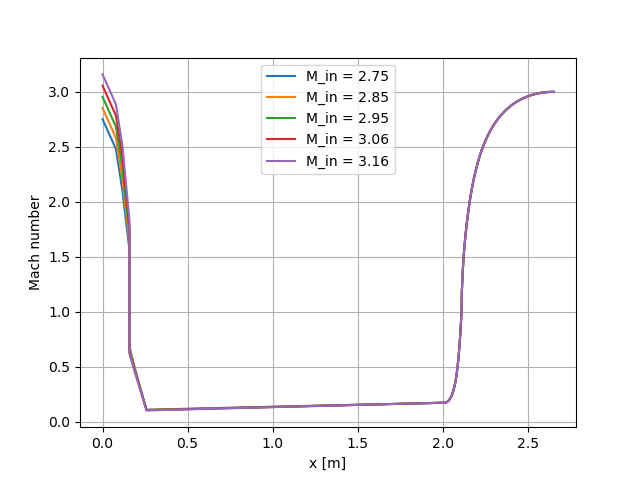
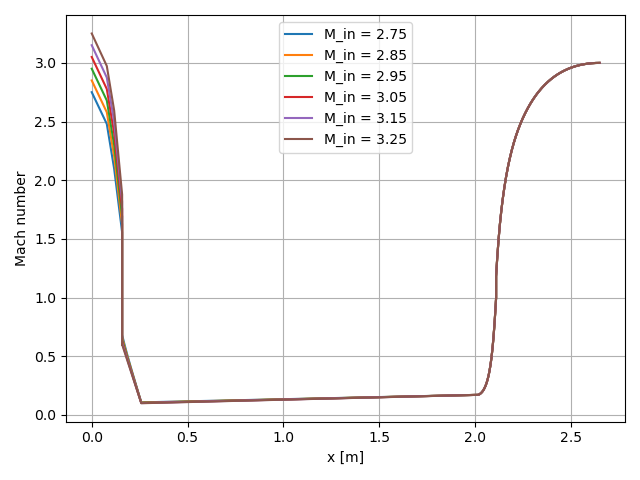
evaluation done. but MOC nozzle weird and non-isentropic. Also midterm report typo fix

diff --git a/Final/nozzle.py b/Final/nozzle.py
@@ -420,7 +420,7 @@ def design_nozzle(P5, T5, M5, m_dot, P_exit, depth, n_characteristics=300):
 
     return P, T, M, m_dot, A, h, x, c_plus_chars, c_minus_chars
 
-def analyze_nozzle(x6s, h6s, P5, T5, M5, depth, n_characteristics=300):
+def analyze_nozzle_moc(x6s, h6s, P5, T5, M5, depth, n_characteristics=300):
     """
     Analyze nozzle with quasi-1D isentropic flow
     
@@ -481,8 +481,8 @@ def analyze_nozzle(x6s, h6s, P5, T5, M5, depth, n_characteristics=300):
     T0 = T5 * (1 + (gamma-1)/2 * M5**2)
     
     # Estimate exit Mach from given wall geometry
-    A_throat = h6s[0] * depth
-    A_exit = h6s[-1] * depth
+    A_throat = h6s.iloc[0] * depth
+    A_exit = h6s.iloc[-1] * depth
     area_ratio = A_exit / A_throat
     
     def area_mach_function(M):
@@ -491,9 +491,9 @@ def analyze_nozzle(x6s, h6s, P5, T5, M5, depth, n_characteristics=300):
     M_exit = bisection_method(area_mach_function, area_ratio, 1e-9, 1.001, 10.0)
     
     # MOC setup
-    height_throat = h6s[0]
+    height_throat = h6s.iloc[0]
     M_throat = M5
-    x_corner = x6s[0]
+    x_corner = x6s.iloc[0]
     y_corner = height_throat
     y_centerline = 0.0
     
@@ -621,8 +621,8 @@ def analyze_nozzle(x6s, h6s, P5, T5, M5, depth, n_characteristics=300):
         y_wall_hit = None
         
         for i in range(len(x6s) - 1):
-            x1, x2 = x6s[i], x6s[i+1]
-            y1, y2 = h6s[i], h6s[i+1]
+            x1, x2 = x6s.iloc[i], x6s.iloc[i+1]
+            y1, y2 = h6s.iloc[i], h6s.iloc[i+1]
             
             if x2 < x_last:
                 continue
@@ -791,6 +791,102 @@ def analyze_nozzle(x6s, h6s, P5, T5, M5, depth, n_characteristics=300):
     Ts = np.array(T_mass_avg)
 
     return Ps, Ts, Ms, c_plus_chars, c_minus_chars
+
+def analyze_nozzle_1d(h6s, P5, T5, M5, depth):
+    """
+    Analyze nozzle with quasi-1D isentropic flow
+    
+    Inputs:
+        h6s: List of heights of nozzle design (m)
+        P5: Static pressure at section 5 (Pa)
+        T5: Static temperature at section 5 (K)
+        M5: Mach number at section 5 (dimensionless)
+        depth: Physical depth of nozzle (m)
+    
+    Outputs:
+        P, T, M: Arrays with axial distributions
+    """
+
+    """
+    Analyze nozzle with quasi-1D isentropic flow
+    
+    Inputs:
+        h6s: List of heights of nozzle design (m)
+        P5: Static pressure at section 5 (Pa)
+        T5: Static temperature at section 5 (K)
+        M5: Mach number at section 5 (dimensionless)
+        depth: Physical depth of nozzle (m)
+    
+    Outputs:
+        P, T, M: Arrays with axial distributions
+    """
+
+    # Helper Functions
+    def bisection_method(function, value, tolerance, left_bound=0, right_bound=47000):
+        a = left_bound
+        b = right_bound
+        fa = function(a) - value
+        fb = function(b) - value
+
+        if abs(fa) < 1e-9:
+            return a
+        if abs(fb) < 1e-9:
+            return b
+
+        if fa * fb > 0:
+            raise ValueError("Balloon will never reach equilibrium")
+        while (b - a) > tolerance:
+            c = (a + b) / 2
+            fc = function(c) - value
+            if abs(fc) < 1e-9:
+                return c
+            if fa * fc < 0:
+                b, fb = c, fc
+            else:
+                a, fa = c, fc
+        return (a + b) / 2
+
+    def area_mach_function(M):
+        """
+        Inputs:
+            M: Mach number (dimensionless)
+
+        Outputs:
+            A/A*: Area ratio (dimensionless)
+        """
+        return np.sqrt((1/M**2) * ((2/(gamma+1))*(1 + (gamma-1)/2 * M**2))**((gamma+1)/(gamma-1)))
+    
+    # Stagnation properties from static
+    P0 = P5 * (1 + (gamma-1)/2 * M5**2)**(gamma/(gamma-1))
+    T0 = T5 * (1 + (gamma-1)/2 * M5**2)
+    # Throat Area
+    A_throat = h6s.iloc[0] * depth
+
+    # Area ratio at each wall point
+    A = h6s * depth
+    A_ratio = A / A_throat
+
+    # Mach at each point
+    Ms = []
+    for i, ar in enumerate(A_ratio):
+        if i == 0:
+            M = M5  # Throat
+        else:
+            M = bisection_method(area_mach_function, ar, 1e-9, 1.001, 10.0)
+        Ms.append(M)
+
+    Ms = np.array(Ms)
+
+    # Pressure and temperature ratios
+    p_p0 = 1 / ((1 + (gamma-1)/2 * Ms**2)**(gamma/(gamma-1)))
+    T_T0 = 1 / (1 + (gamma-1)/2 * Ms**2)
+    Ps = p_p0 * P0
+    Ts = T_T0 * T0
+
+    return Ps, Ts, Ms
+
+
+
 
 if __name__ == "__main__":
     P4 = 200000

diff --git a/Final/evaluate.py b/Final/evaluate.py
@@ -16,7 +16,7 @@ from diffuser import evaluate_diffuser
 from flameholder import flameholder
 from combustor import evaluate_combustor
 from converging_section import analyze_converging_section
-from nozzle import analyze_nozzle
+from nozzle import analyze_nozzle_moc, analyze_nozzle_1d
 
 from plot_top import plot_top
 from plot_bottom import plot_bottom
@@ -25,7 +25,7 @@ from thrust_calc import calculate_thrust
 # Atmosphere:
 P_atm = 9112.32  # Pa
 T_atm = 216.65  # K
-M_atms = np.linspace(2.75, 3.25, 50)
+M_atms = np.linspace(2.75, 3.25, 51)
 gamma = gamma_air
 
 with open("Final/profiles/inlet_design_params_dict.pkl", "rb") as f:
@@ -59,6 +59,7 @@ for M_in in M_atms:
 
 for r in results:
     M_in = r["M_in"]
+    print(f"Running {M_in}")
 
     # Inlet
     P_inlet, T_inlet, _, M_inlet = inlet.get_1d_profiles(inlet_xs, P_atm, T_atm, M_in)
@@ -123,7 +124,8 @@ for r in results:
     r["T0s"].extend(con_Ts * T0_T(con_Ms, gamma))
 
     # Nozzle
-    noz_Ps, noz_Ts, noz_Ms = analyze_nozzle(nozzle_df["height"], r["Ps"][-1], r["Ts"][-1], r["Ms"][-1], width)
+    noz_Ps, noz_Ts, noz_Ms, _, _ = analyze_nozzle_moc(nozzle_df["x_vals"], nozzle_df["height"], r["Ps"][-1], r["Ts"][-1], r["Ms"][-1], width, n_characteristics=300)
+    #noz_Ps, noz_Ts, noz_Ms = analyze_nozzle_1d(nozzle_df["height"], r["Ps"][-1], r["Ts"][-1], r["Ms"][-1], width)
     r["xs"].extend(nozzle_df["x_vals"] + r["xs"][-1])
     r["Ms"].extend(noz_Ms)
     r["Ps"].extend(noz_Ps)
@@ -155,6 +157,7 @@ plt.xlabel("x [m]")
 plt.ylabel("Mach number")
 plt.legend()
 plt.grid(True)
+plt.tight_layout()
 plt.savefig('Final/results/mach_profiles.png')
 
 plt.figure()
@@ -164,6 +167,7 @@ plt.xlabel("x [m]")
 plt.ylabel("Static Pressure [Pa]")
 plt.legend()
 plt.grid(True)
+plt.tight_layout()
 plt.savefig('Final/results/p_profiles.png')
 
 plt.figure()
@@ -173,6 +177,7 @@ plt.xlabel("x [m]")
 plt.ylabel("Static Temperature [K]")
 plt.legend()
 plt.grid(True)
+plt.tight_layout()
 plt.savefig('Final/results/t_profiles.png')
 
 plt.figure()
@@ -182,6 +187,7 @@ plt.xlabel("x [m]")
 plt.ylabel("Stagnation Pressure [Pa]")
 plt.legend()
 plt.grid(True)
+plt.tight_layout()
 plt.savefig('Final/results/p0_profiles.png')
 
 plt.figure()
@@ -191,6 +197,7 @@ plt.xlabel("x [m]")
 plt.ylabel("Stagnation Temperature [K]")
 plt.legend()
 plt.grid(True)
+plt.tight_layout()
 plt.savefig('Final/results/t0_profiles.png')
 
 plt.figure()
@@ -200,6 +207,7 @@ plt.plot(M_in_vals, m_dot_fuel_vals)
 plt.xlabel("Mach number")
 plt.ylabel("Necessary fuel mass flow [kg/s]")
 plt.grid(True)
+plt.tight_layout()
 plt.savefig('Final/results/fuel_flow_vs_mach.png')
 
 plt.figure()
@@ -209,6 +217,7 @@ plt.plot(M_in_vals, thrust_vals)
 plt.xlabel("Mach number")
 plt.ylabel("Thrust [N]")
 plt.grid(True)
+plt.tight_layout()
 plt.savefig('Final/results/thrust_vs_mach.png')
 
 plt.figure()
@@ -221,6 +230,7 @@ plt.xlabel("v [kg/m^3]")
 plt.ylabel("P [Pa]")
 plt.legend()
 plt.grid(True)
+plt.tight_layout()
 plt.savefig('Final/results/P-v.png')
 
 

diff --git a/Final/helper.py b/Final/helper.py
@@ -1,0 +1,77 @@
+import numpy as np
+import pickle
+import pandas as pd
+from matplotlib import pyplot as plt
+
+import os, sys
+from pathlib import Path
+sys.path.insert(0,os.fspath(Path(__file__).parents[1]))
+
+from Tools.misc_functions import get_speed_of_sound
+from Tools.constants import R_air, gamma_air
+from Tools.isentropic import *
+
+from inlet import inlet as Inlet
+from diffuser import evaluate_diffuser
+from flameholder import flameholder
+from combustor import evaluate_combustor
+from converging_section import analyze_converging_section
+from nozzle import analyze_nozzle
+
+# Atmosphere:
+P_atm = 9112.32  # Pa
+T_atm = 216.65  # K
+M_atms = np.linspace(2.75, 3.25, 5)
+gamma = gamma_air
+
+# Basic properties:
+width = 1  # m
+
+def evaluate_up_to_converger(M_lowest, inlet_design_params_dict, diffuser_df, combustor_dict):
+    inlet = Inlet(**inlet_design_params_dict)
+    inlet_xs = inlet.xs
+    inlet_ys = inlet.ys
+    r = {
+        "xs": [],
+        "Ms": [],
+        "Ps": [],
+        "Ts": [],
+    }
+    M_in = M_lowest
+    # Inlet
+    P_inlet, T_inlet, _, M_inlet = inlet.get_1d_profiles(inlet_xs, P_atm, T_atm, M_in)
+    P0_inlet = P_inlet * P0_P(M_inlet, gamma)
+    T0_inlet = T_inlet * T0_T(M_inlet, gamma)
+    r["xs"].extend(inlet_xs)
+    r["Ms"].extend(M_inlet)
+    r["Ps"].extend(P_inlet)
+    r["Ts"].extend(T_inlet)
+    M_normal, P_normal, T_normal, _, _, _ = inlet.output_properties(P_atm, T_atm, M_in)
+    r["xs"].append(r["xs"][-1])
+    r["Ms"].append(M_normal)
+    r["Ps"].append(P_normal)
+    r["Ts"].append(T_normal)
+    # Diffuser
+    diffuser_results = evaluate_diffuser(diffuser_df['x'], diffuser_df['y'], r["Ms"][-1], r["Ps"][-1], r["Ts"][-1], width)
+    r["xs"].extend(diffuser_results['x'] + r["xs"][-1])
+    r["Ms"].extend(diffuser_results['Mach'])
+    r["Ps"].extend(diffuser_results['Pressure'])
+    r["Ts"].extend(diffuser_results['Temperature'])
+    # Flameholder
+    P_out, _ = flameholder(r["Ps"][-1], r["Ms"][-1], gamma)
+    r["xs"].append(r["xs"][-1])
+    r["Ms"].append(r["Ms"][-1])
+    r["Ps"].append(P_out)
+    r["Ts"].append(r["Ts"][-1])
+    # Combustor
+    u_in =  r["Ms"][-1]* get_speed_of_sound(r["Ts"][-1])
+    rho_in = r["Ps"][-1] / (R_air * r["Ts"][-1])
+    area_in = diffuser_df['y'].iloc[-1] * width
+    m_dot_air = area_in * rho_in * u_in
+    combustor_results = evaluate_combustor(combustor_dict["length_m"], r["Ms"][-1], r["Ps"][-1], r["Ts"][-1], m_dot_air, width, combustor_dict["m_dot_fuel"])
+    r["xs"].append(combustor_results["length_m"] + r["xs"][-1])
+    r["Ms"].append(combustor_results["M_out"])
+    r["Ps"].append(combustor_results["P_out"])
+    r["Ts"].append(combustor_results["T_out"])
+    
+    return r["Ms"][-1], r["Ps"][-1], r["Ts"][-1]

diff --git a/Midterm/report/report.tex b/Midterm/report/report.tex
@@ -21,7 +21,7 @@
 \addbibresource{sources.bib}
 
 
-\title{Midtern Project: Supersonic Train Design}
+\title{Midterm Project: Supersonic Train Design}
 \author{Sophia Klymchuk \\
 \small Prof. Chacon \\ 
 \small ME-433: Rocket Science}
